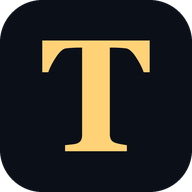
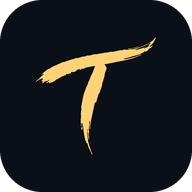
Publish Tyler App 2026-11-05 10:40

Changed region(s): [[0.1875, 0.1875, 0.8125, 0.8125]]

diff --git a/index.html b/index.html
@@ -42,7 +42,7 @@ button{width:100%;min-height:48px;margin-top:12px;border:0;border-radius:12px;ba
 </style>
 </head>
 <body>
-<svg class="m" viewBox="0 0 32 32" aria-hidden="true"><rect width="32" height="32" rx="9" fill="#0b0f17" stroke="rgba(255,255,255,.14)" stroke-width="1"/><path d="M8 9.5h16M16 9.5V24" stroke="#ffd277" stroke-width="3.2" stroke-linecap="round" fill="none"/></svg>
+<svg class="m" viewBox="0 0 32 32" aria-hidden="true"><rect width="32" height="32" rx="9" fill="#0b0f17" stroke="rgba(255,255,255,.14)" stroke-width="1"/><path d="M23.05 7.76L22.11 8.02L21.34 8.12L21.34 8.18L22.37 8.02L23.05 7.81ZM25.95 6.21L25.48 6.78L24.65 7.30L23.62 7.76L22.32 8.18L21.65 8.23L21.34 8.33L21.03 8.33L20.77 8.23L20.25 8.38L19.94 8.38L19.01 8.59L18.28 8.64L17.97 8.75L17.61 8.75L15.95 9.06L15.64 9.06L14.86 9.26L14.50 9.26L14.08 9.42L13.77 9.42L12.94 9.68L12.68 9.68L10.87 10.25L10.72 10.35L10.46 10.35L8.64 11.18L8.33 11.44L8.02 11.54L7.35 12.01L6.88 12.48L7.19 12.32L7.30 12.37L6.00 13.56L6.05 13.62L6.36 13.36L6.98 13.05L7.19 13.15L6.88 13.56L7.09 13.51L7.19 13.56L6.98 13.93L7.50 13.56L7.92 13.46L8.18 13.25L8.28 13.31L7.66 13.88L8.12 13.67L8.28 13.77L8.23 13.82L8.28 13.88L8.49 13.72L8.64 13.72L9.06 13.51L9.47 13.20L9.58 13.20L10.25 12.79L11.03 12.48L10.97 12.37L11.03 12.32L11.28 12.37L11.80 12.17L11.80 12.06L11.96 11.96L12.22 12.01L12.68 11.85L12.74 11.70L13.15 11.54L13.46 11.60L13.62 11.44L13.93 11.44L14.29 11.28L15.79 10.97L15.84 11.03L15.48 12.06L15.22 12.53L14.91 13.41L14.70 13.77L14.70 13.93L14.34 14.65L13.93 15.84L13.51 17.92L13.62 17.97L13.46 19.06L13.51 19.16L13.46 20.25L13.62 21.65L13.67 21.65L13.67 21.44L13.77 21.39L13.77 20.61L13.82 20.56L14.03 22.37L14.29 23.51L14.45 23.56L14.34 23.62L14.39 23.82L14.50 23.82L14.60 23.98L14.76 24.55L14.91 24.76L15.33 25.74L15.38 25.69L15.17 25.27L14.70 23.67L14.50 22.17L14.55 22.06L14.50 21.49L14.55 21.44L14.60 21.49L14.76 23.20L14.81 23.20L14.81 22.63L14.76 22.58L14.81 21.75L14.76 21.65L14.91 20.61L14.86 20.51L14.91 20.15L14.96 20.09L15.02 20.15L15.02 20.66L14.96 20.72L14.96 21.49L15.02 21.49L15.02 20.97L15.17 19.94L15.79 17.19L16.00 17.04L16.41 15.69L16.52 15.59L16.98 14.29L17.04 13.88L17.40 12.74L17.45 12.27L17.71 11.54L17.71 11.23L17.40 10.72L20.92 10.04L22.37 9.63L23.56 9.16L23.51 9.11L22.53 9.47L20.82 9.89L20.56 9.83L23.15 9.11L23.98 8.69L24.13 8.49L24.24 8.59L24.65 8.38L24.76 8.18L25.02 7.97L25.17 7.97L25.17 7.87L25.43 7.61L25.38 7.55L25.02 7.81L24.91 7.76L25.53 7.14L25.90 6.47ZM13.67 20.56L13.72 20.61L13.72 21.23L13.67 21.28L13.62 21.23L13.62 20.61ZM25.12 7.19L24.91 7.40L24.65 7.50L24.65 7.55L24.76 7.50L24.86 7.55L24.60 7.81L24.08 8.07L23.98 8.02L24.39 7.71L23.72 8.02L22.74 8.33L22.53 8.28L24.39 7.50L25.02 7.14Z" fill="#ffd277" fill-rule="evenodd"/></svg>
 <h1>Tyler App</h1>
 <form id="f"><input id="p" type="password" autocomplete="current-password" placeholder="Password" aria-label="Password"><button type="submit">Unlock</button><div id="e"></div></form>
 <div class="sweep" role="status"><span class="sr-only">Opening…</span></div>

diff --git a/sw.js b/sw.js
@@ -1,5 +1,5 @@
 'use strict';
-var VERSION = 'tyler-app-v1';
+var VERSION = 'tyler-app-v2';   // v2: brush T icons
 var PRECACHE = ['./', './index.html', './manifest.webmanifest', 'icons/icon-192.png', 'icons/icon-512.png', 'icons/icon-maskable-512.png', 'icons/apple-touch-icon.png'];
 
 self.addEventListener('install', function (e) {
